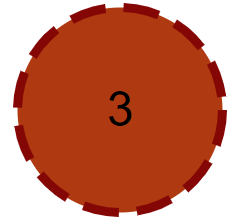
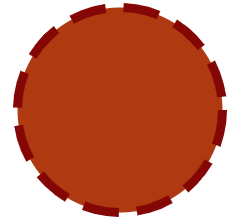
funciones de seleccion de nivel, aun no acabado

Changed region(s): [[0.4412, 0.4062, 0.5588, 0.5625]]

diff --git a/DSIProyectoFinal/ModoHistoria.xaml.cs b/DSIProyectoFinal/ModoHistoria.xaml.cs
@@ -48,5 +48,12 @@ namespace DSIProyectoFinal
         {
             Frame.Navigate(typeof(Opciones));
         }
+
+        private void Button_Click(object sender, RoutedEventArgs e)
+        {
+            Button b = e.OriginalSource as Button;
+            string s = b.Name;
+            Frame.Navigate(typeof(SelectorCapitulo), s[5]);
+        }
     }
 }

diff --git a/DSIProyectoFinal/SelectorCapitulo.xaml.cs b/DSIProyectoFinal/SelectorCapitulo.xaml.cs
@@ -57,5 +57,13 @@ namespace DSIProyectoFinal
         {
             Frame.Navigate(typeof(Opciones));
         }
+
+        protected async override void OnNavigatedTo(NavigationEventArgs e)
+        {
+            
+            base.OnNavigatedTo(e);
+            char s = (Char)e.Parameter;
+            LevelText.Text = s.ToString();
+        }
     }
 }
